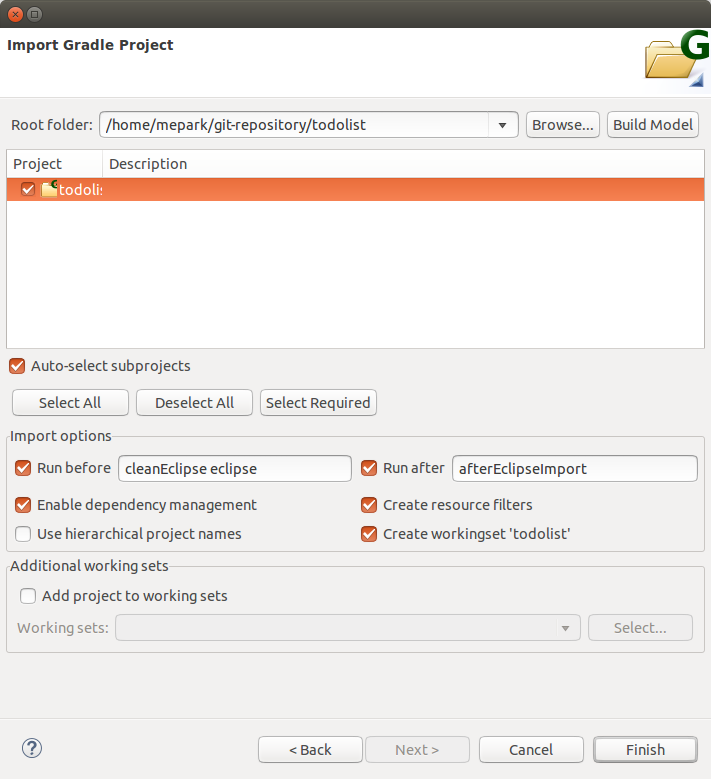
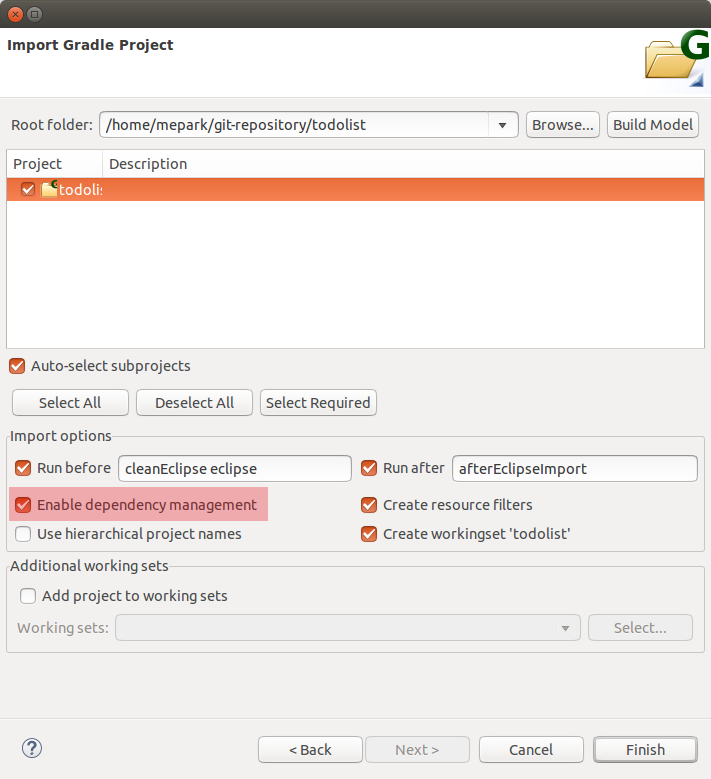
Post 수정

Changed region(s): [[0.0, 0.6162, 0.4023, 0.6778]]

diff --git a/_posts/2016-06-28-when-create-new-springboot-project-jre-system-library-duplication.md b/_posts/2016-06-28-when-create-new-springboot-project-jre-system-library-duplication.md
@@ -3,50 +3,51 @@ layout: post
 title:  "SpringBoot로 새로 프로젝트를 시작할 때 발생하는 JRE System Library 중복 문제"
 category: SpringBoot
 ---
-## When Create New SpringBoot Project, JRE System Library Duplication.
-
-## 상황
-- 약 두달 전 쯤인가 SpringBoot 로 프로젝트 시작하려고 보니 프로젝트들 만들기만 하면 JRE System Library가 중복되어 오류가 발생하는 상황이 나타났다.  
+# 문제 발견
 ![jre-system-library-duplication](/images/2016-06-28/jre-system-library-duplication.png)
 
-- 해결하려고 JRE System Library를 삭제했다가 다시 추가하고 막 구글링하고 해봐도 잘 해결 안됐었는데..
-- 당시 같은팀에 계셨던 K과장님과 어찌저찌 해결했던 것 같다.
-- 그 후, [K과장님이 내용을 정리해서 남긴 글](http://java.ihoney.pe.kr/438)
-- 또 새로운 프로젝트를 만들어서 개발하려는데 똑같은 상황이 발생해서 K과장님의 글로 해결하려고 했다.
-- 헌데 글 내용대로 진행한 후, 프로젝트를 새로고침(f5)가 아닌 Gradle(STS) - Refresh All(ctrl+f5) 로 새로고침하면 다시 중복문제가 발생했다.
-- Gradle Refresh All 하면 cleanEclipse, eclipse task가 실행되면서 classpath를 재설정하는데, 제대로 설정되지 않는 것 같다.
+약 두달 전 쯤 새로운 프로젝트를 SpringBoot로 진행하려는데 프로젝트들 만들기만 하면 JRE System Library가 중복되는 오류가 발생했다. JRE System Library를 삭제, 추가해보고 구글링을 해봐도 만족스러운 해결 방법이 없었다. 당시에는 같은 팀에 계셨던 K과장님[(K과장님 글)](http://java.ihoney.pe.kr/438)의 도움으로 해결했었다.
 
-  ```
-  [sts] -----------------------------------------------------
-  [sts] Starting Gradle build for the following tasks:
-  [sts]      :cleanEclipse
-  [sts]      :eclipse
-  [sts] -----------------------------------------------------
-  :cleanEclipseClasspath UP-TO-DATE
-  :cleanEclipseJdt UP-TO-DATE
-  :cleanEclipseProject UP-TO-DATE
-  :cleanEclipse UP-TO-DATE
-  :eclipseClasspath
-  :eclipseJdt
-  :eclipseProject
-  :eclipse
+한달여 지난 후, 새로운 프로젝트를 진행하려는데 같은 상황이 발생했다. 그래서 지난번처럼 K과장님의 글 내용대로 설정해서 해결하려 했으나 이상하게도 중복문제가 해결되지 않았다. 프로젝트를 새로고침(f5)이 아닌 Gradle Refresh All(Gradle(STS) - Refresh All(ctrl+f5))로 새로고침하면 다시 중복문제가 발생하는 것이다.
 
-  BUILD SUCCESSFUL
+Gradle Refresh All 하면 `cleanEclipse`, `eclipse task`가 실행되면서 classpath를 재설정하는데, 제대로 설정되지 않는 것 같았다.  
 
-  Total time: 0.981 secs
-  [sts] -----------------------------------------------------
-  [sts] Build finished succesfully!
-  [sts] Time taken: 0 min, 1 sec
-  [sts] -----------------------------------------------------
-  ```
+```
+[sts] -----------------------------------------------------
+[sts] Starting Gradle build for the following tasks:
+[sts]      :cleanEclipse
+[sts]      :eclipse
+[sts] -----------------------------------------------------
+:cleanEclipseClasspath UP-TO-DATE
+:cleanEclipseJdt UP-TO-DATE
+:cleanEclipseProject UP-TO-DATE
+:cleanEclipse UP-TO-DATE
+:eclipseClasspath
+:eclipseJdt
+:eclipseProject
+:eclipse
 
-## 원인 파악 과정
-- 원인 파악 과정(삽질)이 길다. 해결책만 보려면 아래로 건너뛰자.
+BUILD SUCCESSFUL
+
+Total time: 0.981 secs
+[sts] -----------------------------------------------------
+[sts] Build finished succesfully!
+[sts] Time taken: 0 min, 1 sec
+[sts] -----------------------------------------------------
+```
+
+# 현상 파악
+간단히 해결될 줄로 믿고 구글링으로 여러 방법을 찾아봤지만 쉽게 방법이 찾아지지 않았다.  
+일단 현상 파악을 해보았다.
+
 - 새로운 프로젝트 만들 때마다 발생한다.
-- import하면 문제가 생기지 않음. 엥(?)
-- 구글링..구글...구글링.....
-- 일단 다시 한번 확인. 라이브러리를 삭제하고 다시 add해보자.
-- Project를 우클릭해서 context menu를 띄운 뒤, Build Path - ConfigureBuild Path... 클릭.
+- 새로운 Gradle Project를 Import하면 문제가 생기지 않는다.(Import할 때와 Create할 때의 옵션이 다른 듯)
+- JRE System Library를 삭제, 추가해봐도 해결되지 않는다.
+
+# 해결 시도
+
+## 1. JRE System Library 삭제, 추가 방법
+- Project를 우클릭해서 Context menu를 띄운 뒤, `Build Path` - `ConfigureBuild Path...`를 클릭한다.
 ![configure-build-path](/images/2016-06-28/configure-build-path.png)
 
 - 중복된 두개의 JRE System Library를 삭제한다.
@@ -61,42 +62,39 @@ category: SpringBoot
 - 에러가 없어졌다?  
 ![maybe-clear](/images/2016-06-28/maybe-clear.png)  
 
-- 그런데 다시 Refresh All 하면 다시 중복 발생.  
+- 그런데 다시 `Refresh All` 하면 다시 중복 발생.  
 ![jre-system-library-duplication](/images/2016-06-28/jre-system-library-duplication.png)
 
-- build.gradle 수정해볼까?
-  ![modify-build-gradle](/images/2016-06-28/modify-build-gradle.png)
-  - containers 추가하는것 주석처리하니까 중복문제는 해결됐다. 그런데 기본 설정을 바꾸고 싶지는 않다.
-  - containers.remove 가 정상작동 하는가? remove가 안되나??
-  - containers.clean 정상 작동하는가? clean이 안되나??  
-- gradle에서 eclipse classpath의 뭔가가 정상적으로 적용되지 않는 것 같다.
-  - defendency가 제대로 적용되지 않는 것 같은데?
+## 2. build.gradle 수정
+![modify-build-gradle](/images/2016-06-28/modify-build-gradle.png)
 
-  - Gradle(STS) context menu 들어가보니 Enable Dependency Management가 있다. 클릭!
-  ![gradle-context-menu](/images/2016-06-28/gradle-context-menu.png)
+- containers 추가하는것 주석처리하니까 중복문제는 해결됐다. 그런데..`build.gradle`을 수정하는 방법은 맞지 않는 것 같은 느낌.
 
-  - 다시 Refresh All 해보자. 오?! 중복이 사라졌다.  
-  ![gradle-defendency](/images/2016-06-28/gradle-defendency.png)
+## 3. STS(Eclipse)에서 Gradle 옵션 설정
+Gradle Project를 Import할 때와 Create할 때 중복 현상의 발생 현상이 다른 것 같으니 STS에서 옵션을 살펴보자.
 
-- 다른 Gradle 프로젝트를 import 할 때를 다시 살펴보니 enable dependency management가 체크되어 있구나.  
+- Gradle(STS) Context menu 들어가보니 `Enable Dependency Management`가 있다. 클릭!
+![gradle-context-menu](/images/2016-06-28/gradle-context-menu.png)
+- 다시 `Refresh All` 해보자. 오?! 중복이 사라졌다.  
+![gradle-defendency](/images/2016-06-28/gradle-defendency.png)
+- Gradle 프로젝트를 Import하는 경우를 확인해보니 Default로 `Enable dependency management`가 체크되어 있다.
 ![gradle-project-import](/images/2016-06-28/gradle-project-import.png)
 
-## 해결책 정리
-- Gradle의 Eclipse Plugin 설정이 원인이다.
-- Gradle의 Dependency Management를 Enable로 설정해주면 해결된다.
+
+# 해결책
+- Gradle의 Eclipse Plugin 설정이 원인.
+- Gradle의 `Dependency Management`를 `Enable`로 설정해주면 해결된다.
 - 프로젝트 Context Menu 열기(프로젝트 우클릭) - Gradle(STS) 로 마우스 이동
 ![gradle-context-menu](/images/2016-06-28/gradle-context-menu.png)
-- Enable Dependency Management 클릭
-- Disable Dependency Management로 뜬다면 이미 사용중이라는 것임.
-- Gradle(STS) -> Refresh All 클릭(Ctrl+F5)
-- 중복되었던 JRE System Library가 하나만 남음
-- 오류 표시 사라짐.  
+  - `Enable Dependency Management` 클릭
+  - `Disable Dependency Management`로 뜬다면 이미 설정되어 있다는 것.
+- Gradle(STS) -> `Refresh All` 클릭(Ctrl+F5)
+- 중복되었던 JRE System Library가 하나만 남았으며 오류 표시가 사라졌다.
 ![gradle-defendency](/images/2016-06-28/gradle-defendency.png)
-- 해결!
 
-## 참고
-- [K과장님이 내용을 정리해서 남긴 글](http://java.ihoney.pe.kr/438)
-- [Eclipse Spring Boot Build Path Contains Duplicate Entry](http://stackoverflow.com/questions/36507516/eclipse-spring-boot-build-path-contains-duplicate-entry)
-- [Chapter 23. Dependency Management](https://docs.gradle.org/current/userguide/dependency_management.html)
-- [Gradle STS Support -- 2.9.0 -- Tutorial](http://docs.spring.io/sts/docs/2.9.0.old/reference/html/gradle/gradle-sts-tutorial.html)
-- [How do I refresh project dependencies using Buildship in Eclipse?](http://stackoverflow.com/questions/31092934/how-do-i-refresh-project-dependencies-using-buildship-in-eclipse)
+# 참고
+- [허니몬(Honeymon)의 자바guru - K과장님이 내용을 정리해서 남긴 글](http://java.ihoney.pe.kr/438)
+- [stackoverflow - Eclipse Spring Boot Build Path Contains Duplicate Entry](http://stackoverflow.com/questions/36507516/eclipse-spring-boot-build-path-contains-duplicate-entry)
+- [Gradle userguide - Chapter 23. Dependency Management](https://docs.gradle.org/current/userguide/dependency_management.html)
+- [Spring.io/docs - Gradle STS Support -- 2.9.0 -- Tutorial](http://docs.spring.io/sts/docs/2.9.0.old/reference/html/gradle/gradle-sts-tutorial.html)
+- [stackoverflow - How do I refresh project dependencies using Buildship in Eclipse?](http://stackoverflow.com/questions/31092934/how-do-i-refresh-project-dependencies-using-buildship-in-eclipse)
